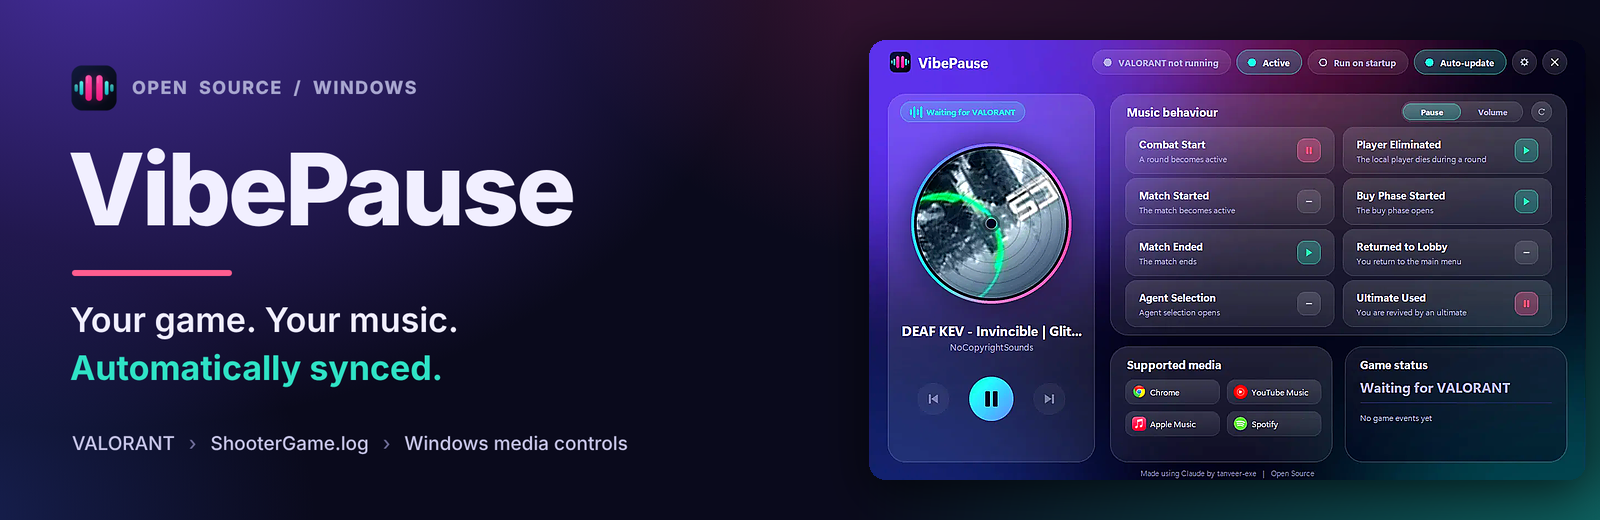
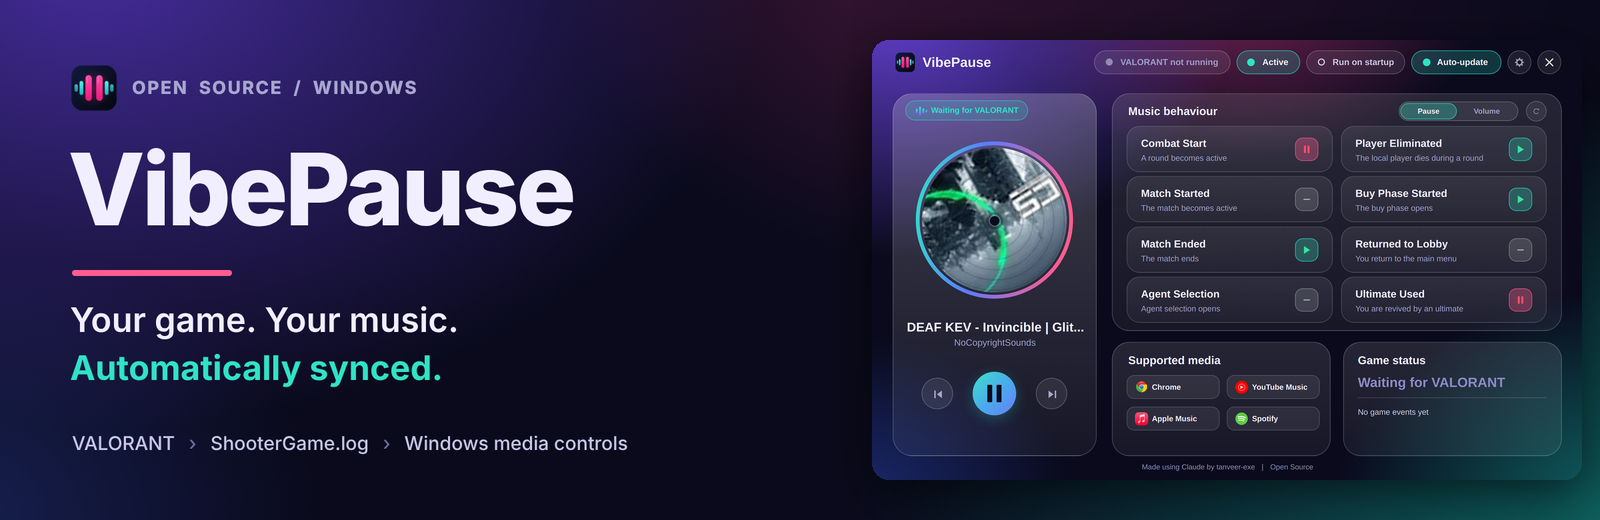
Add files via upload

Changed region(s): [[0.5312, 0.0615, 1.0, 0.9231]]

diff --git a/docs/index.html b/docs/index.html
@@ -194,7 +194,7 @@ footer a{text-underline-offset:3px}
       <p class="fine">Free, no account, no admin rights. Available in 15 languages. The installer is not code-signed yet, so Windows may show a SmartScreen warning. Choose More info, then Run anyway.</p>
     </div>
     <div>
-      <img class="shot" src="screenshot.png" width="2596" height="1594" alt="The VibePause window: now playing card, Music behaviour grid with the Pause and Volume switch, supported media and game status">
+      <img class="shot" src="screenshot.png" width="2610" height="1618" alt="The VibePause window: now playing card, Music behaviour grid with the Pause and Volume switch, supported media and game status">
     </div>
   </header>
 
